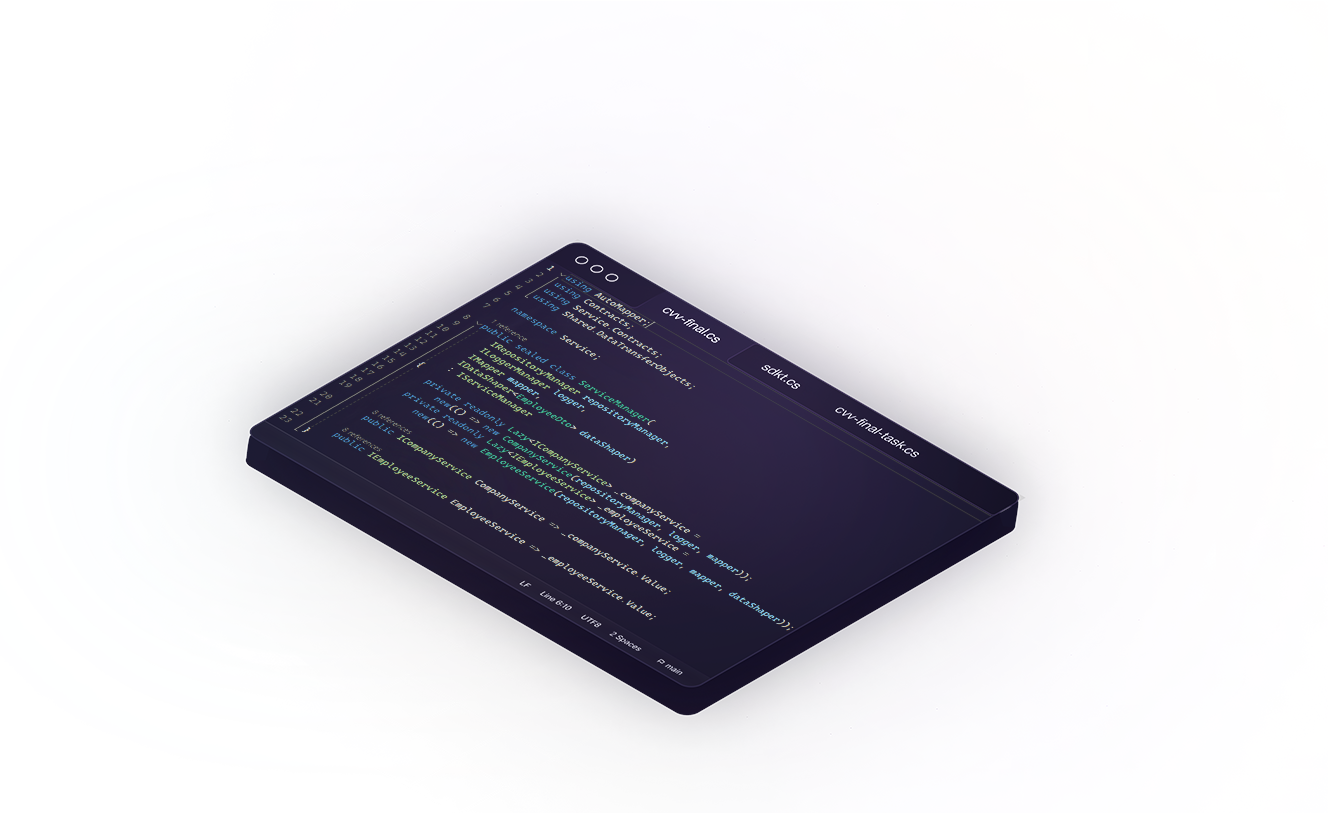
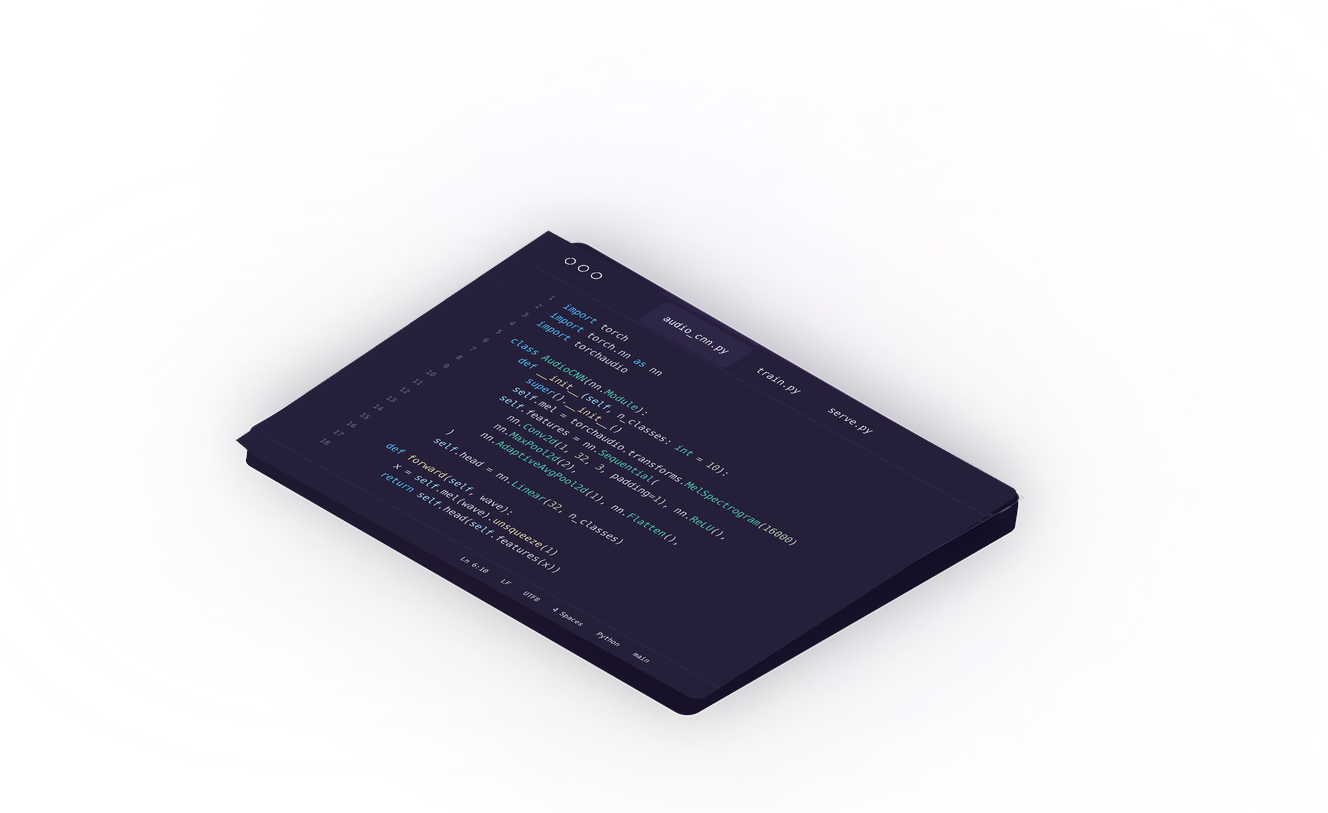
minor fixes

diff --git a/src/components/Robot.jsx b/src/components/Robot.jsx
@@ -43,32 +43,20 @@ const Ring = ({ radius, tube = 0.03, color = COLORS.cyan, ...props }) => (
   </mesh>
 );
 
-function Hand({ pointing }) {
+// Both hands share the same three-finger design.
+function Hand() {
   return (
     <group>
       <mesh>
         <sphereGeometry args={[0.1, 20, 16]} />
         <Shell color={COLORS.joint} />
       </mesh>
-      {pointing ? (
-        <>
-          <mesh position={[0, -0.17, 0]}>
-            <capsuleGeometry args={[0.032, 0.18, 6, 10]} />
-            <Shell color={COLORS.shell} />
-          </mesh>
-          <mesh position={[0.07, -0.06, 0.04]} rotation={[0, 0, -0.6]}>
-            <capsuleGeometry args={[0.026, 0.07, 6, 10]} />
-            <Shell color={COLORS.joint} />
-          </mesh>
-        </>
-      ) : (
-        [-0.05, 0, 0.05].map((x) => (
-          <mesh key={x} position={[x, -0.15, 0]}>
-            <capsuleGeometry args={[0.026, 0.08, 6, 10]} />
-            <Shell color={COLORS.joint} />
-          </mesh>
-        ))
-      )}
+      {[-0.05, 0, 0.05].map((x) => (
+        <mesh key={x} position={[x, -0.15, 0]}>
+          <capsuleGeometry args={[0.026, 0.08, 6, 10]} />
+          <Shell color={COLORS.joint} />
+        </mesh>
+      ))}
     </group>
   );
 }
@@ -95,7 +83,7 @@ function Arm({ side, innerRef, forearmRef, pointing }) {
           <Shell />
         </mesh>
         <group position={[0, -0.4, 0]}>
-          <Hand pointing={pointing} />
+          <Hand />
         </group>
       </group>
     </group>
@@ -297,7 +285,11 @@ export function Robot(props) {
       }}
       onClick={(e) => {
         e.stopPropagation();
-        spin.current.target += Math.PI * 2;
+        // Push the clicked half away: left half spins one way, right half the other.
+        const center = root.current.getWorldPosition(new Vector3()).project(e.camera);
+        const hit = e.point.clone().project(e.camera);
+        const dir = hit.x < center.x ? -1 : 1;
+        spin.current.target += dir * Math.PI * 2;
       }}
     >
       {/* Body */}

diff --git a/src/sections/Footer.jsx b/src/sections/Footer.jsx
@@ -3,11 +3,6 @@ const Footer = () => {
   return (
     <section className="flex flex-wrap items-center justify-between gap-5 pb-3 text-sm text-neutral-400 c-space">
       <div className="mb-4 bg-gradient-to-r from-transparent via-neutral-700 to-transparent h-[1px] w-full" />
-      <div className="flex gap-2">
-        <p>Terms & Conditions</p>
-        <p>|</p>
-        <p>Privacy Policy</p>
-      </div>
       <div className="flex gap-3">
         {mySocials.map((social, index) => (
           <a href={social.href} key={index}>
@@ -15,7 +10,7 @@ const Footer = () => {
           </a>
         ))}
       </div>
-      <p>© 2025 Borhan. All rights reserved.</p>
+      <p>© 2026 Borhan. All rights reserved.</p>
     </section>
   );
 };

diff --git a/src/constants/index.js b/src/constants/index.js
@@ -246,18 +246,13 @@ export const myProjects = [
 
 export const mySocials = [
   {
-    name: "WhatsApp",
-    href: "",
-    icon: "/assets/socials/whatsApp.svg",
-  },
-  {
     name: "Linkedin",
-    href: "https://www.linkedin.com/in/Borhan-Hleiss/",
+    href: "https://www.linkedin.com/in/borhan-hleiss-b2b048b2/",
     icon: "/assets/socials/linkedIn.svg",
   },
   {
     name: "Instagram",
-    href: "https://www.instagram.com/Borhan.Hleissdev/reels/",
+    href: "https://www.instagram.com/borhan_hleiss/reels/",
     icon: "/assets/socials/instagram.svg",
   },
 ];

diff --git a/src/sections/Contact.jsx b/src/sections/Contact.jsx
@@ -35,6 +35,7 @@ const Contact = () => {
           from_name: formData.name,
           to_name: "Borhan",
           from_email: formData.email,
+          to_email: import.meta.env.VITE_CONTACT_EMAIL,
           message: formData.message,
         },
         import.meta.env.VITE_EMAILJS_PUBLIC_KEY
